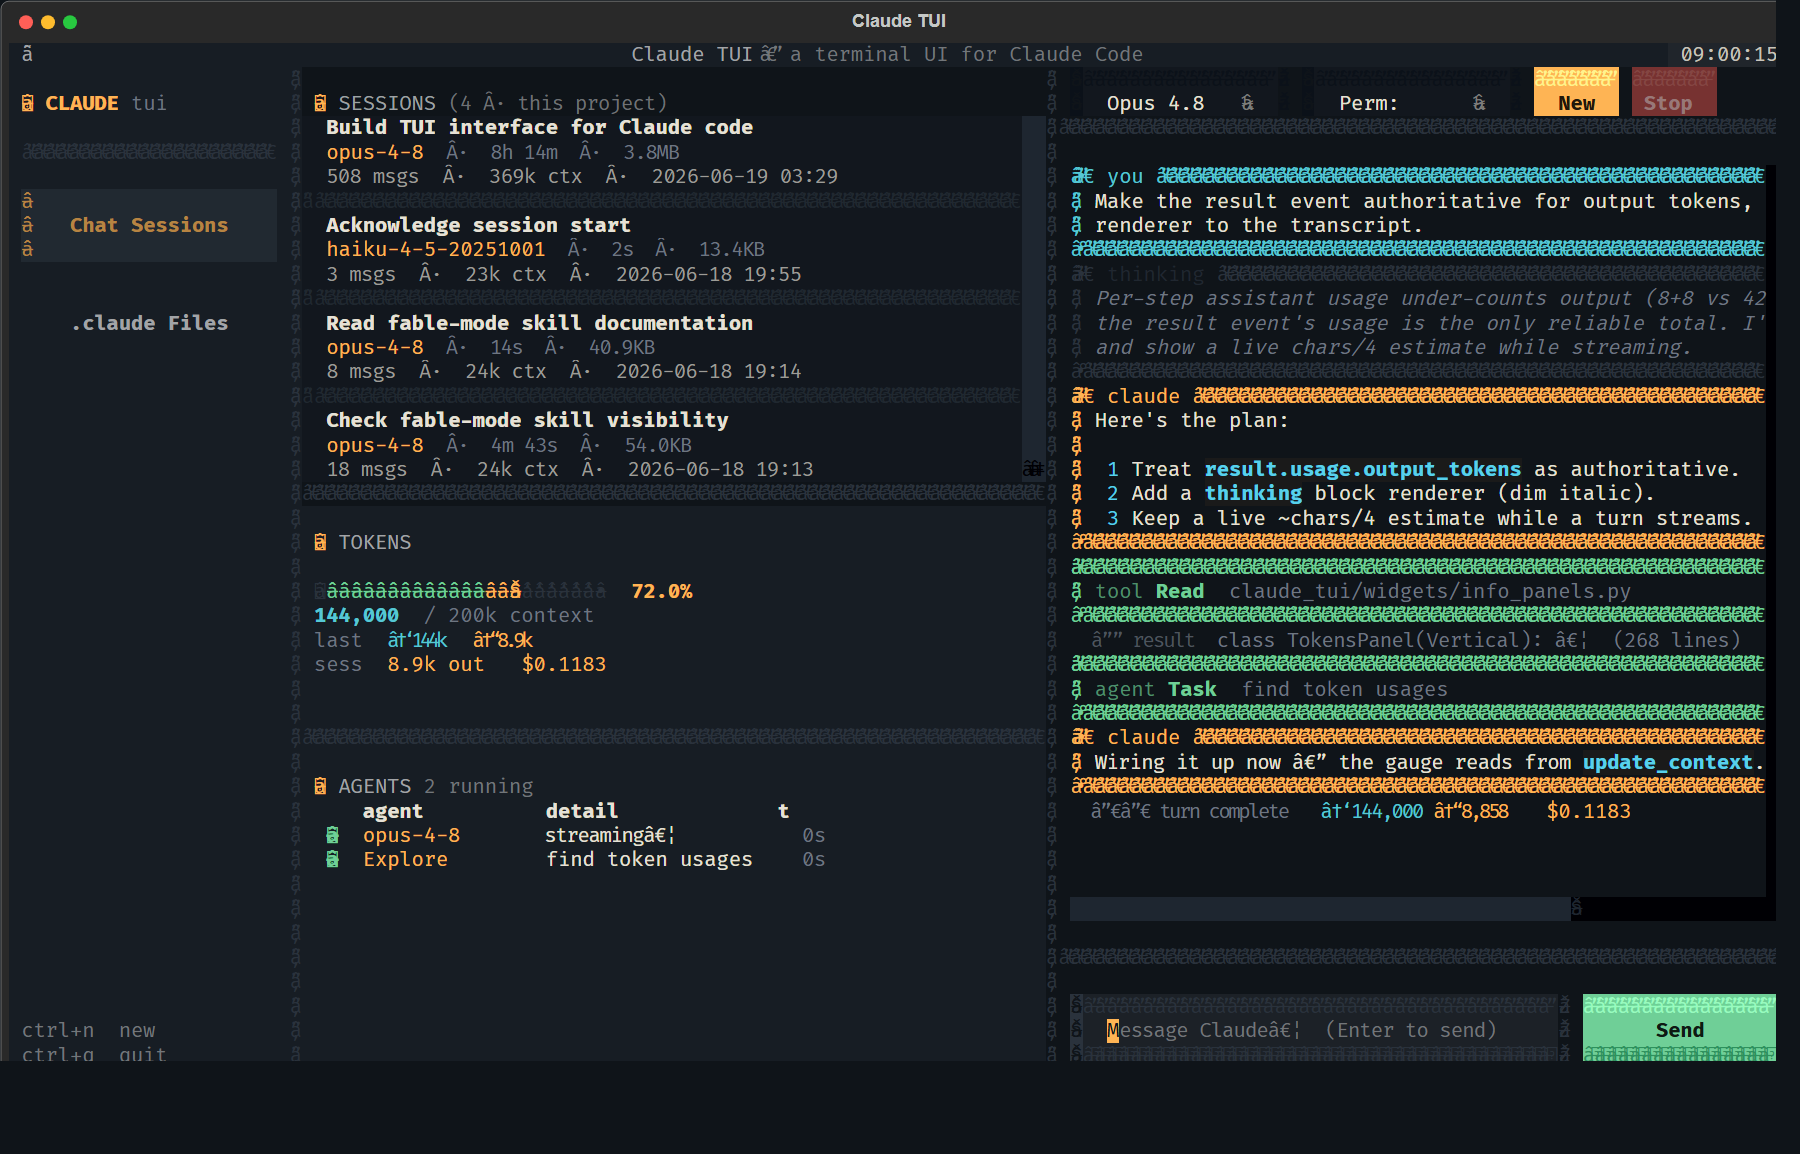
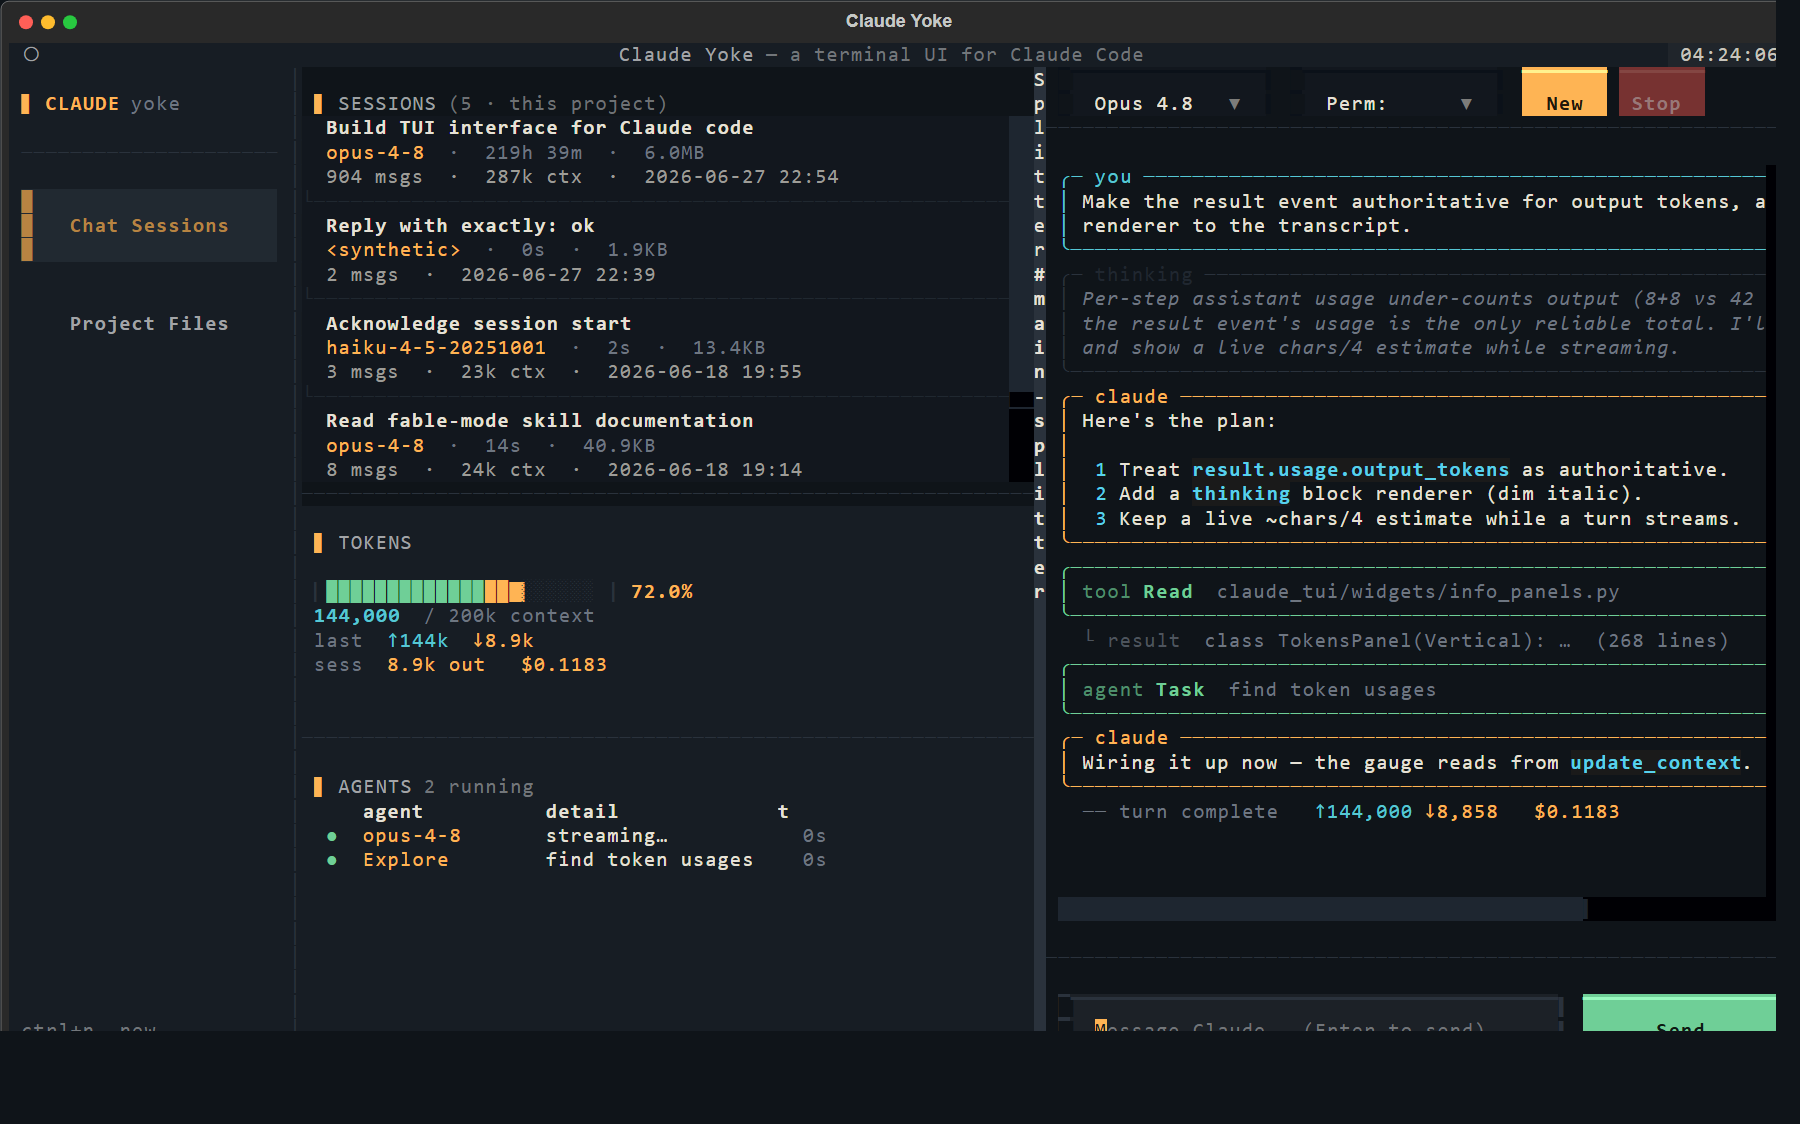
Fix send-after-one-turn lockup, add drag-resizable panes, finish rename
- claude_client: move the process reap/error-emit out of the generator's
  finally block. A yield during GeneratorExit (turn cancel/exception) was
  raising and skipping `self._proc = None`, so is_running stayed True and the
  composer refused every send after the first. finally is now pure cleanup
  (terminate if still live, cancel stderr task, always clear _proc).
- app: gate sends on a worker-lifecycle flag (_turn_active) instead of
  subprocess bookkeeping, so the composer can't get permanently wedged.
- Add a draggable Splitter widget (widgets/splitter.py) between the sidebar
  column and the chat; lights amber on hover/drag. Replaces the static border.
- Finish the rename: app title, sidebar brand, and welcome banner now say
  "Claude Yoke". Refresh docs/screenshot.png to match.

diff --git a/claude_tui/widgets/splitter.py b/claude_tui/widgets/splitter.py
@@ -1,0 +1,71 @@
+"""A thin draggable grip that resizes an adjacent pane with the mouse.
+
+Textual ships no splitter widget, so this is a 1-cell bar that captures the
+mouse on press and, while dragging, rewrites the *target* pane's width (or
+height) reactively. The pane on the other side is expected to be ``1fr`` so it
+simply absorbs the remaining space.
+"""
+
+from __future__ import annotations
+
+from textual import events
+from textual.widget import Widget
+
+
+class Splitter(Widget):
+    """Drag to resize ``target_id``.
+
+    axis ``"x"`` makes a vertical bar that resizes width (drag left/right);
+    axis ``"y"`` makes a horizontal bar that resizes height (drag up/down).
+    ``min_size`` floors the target; ``sibling_min`` reserves space for the
+    1fr pane on the far side so it can't be crushed to nothing.
+    """
+
+    can_focus = False
+
+    def __init__(
+        self,
+        target_id: str,
+        *,
+        axis: str = "x",
+        min_size: int = 24,
+        sibling_min: int = 30,
+        **kwargs,
+    ) -> None:
+        super().__init__(**kwargs)
+        self._target_id = target_id
+        self._axis = axis
+        self._min = min_size
+        self._sibling_min = sibling_min
+        self._dragging = False
+
+    def on_mouse_down(self, event: events.MouseDown) -> None:
+        self._dragging = True
+        self.add_class("-dragging")
+        self.capture_mouse()
+        event.stop()
+
+    def on_mouse_up(self, event: events.MouseUp) -> None:
+        if self._dragging:
+            self._dragging = False
+            self.remove_class("-dragging")
+            self.release_mouse()
+            event.stop()
+
+    def on_mouse_move(self, event: events.MouseMove) -> None:
+        if not self._dragging:
+            return
+        try:
+            target = self.app.query_one(f"#{self._target_id}")
+        except Exception:
+            return
+        container = self.parent
+        if self._axis == "x":
+            desired = event.screen_x - target.region.x
+            limit = container.region.right - self._sibling_min - target.region.x
+            target.styles.width = max(self._min, min(desired, limit))
+        else:
+            desired = event.screen_y - target.region.y
+            limit = container.region.bottom - self._sibling_min - target.region.y
+            target.styles.height = max(self._min, min(desired, limit))
+        event.stop()

diff --git a/claude_tui/core/claude_client.py b/claude_tui/core/claude_client.py
@@ -109,7 +109,11 @@ class ClaudeClient:
                 except json.JSONDecodeError:
                     # Non-JSON noise on stdout — pass it through as a notice.
                     yield {"type": "_stdout", "text": text}
-        finally:
+
+            # stdout reached EOF: reap the process and report a non-zero exit.
+            # This stays OUTSIDE ``finally`` on purpose — yielding while a
+            # generator is being closed (cancel/exception) raises GeneratorExit,
+            # which would skip the cleanup below and wedge ``is_running`` True.
             await proc.wait()
             await stderr_task
             if proc.returncode not in (0, None):
@@ -118,6 +122,16 @@ class ClaudeClient:
                     "returncode": proc.returncode,
                     "stderr": stderr_buf.decode("utf-8", "replace").strip(),
                 }
+        finally:
+            # Runs on normal completion AND when the consumer cancels/closes the
+            # generator. No ``yield`` here, so cleanup always completes.
+            if proc.returncode is None:
+                try:
+                    proc.terminate()
+                except ProcessLookupError:
+                    pass
+            if not stderr_task.done():
+                stderr_task.cancel()
             if self._proc is proc:
                 self._proc = None
 

diff --git a/claude_tui/app.py b/claude_tui/app.py
@@ -26,12 +26,13 @@ from .widgets.editor import EditorScreen
 from .widgets.files_tree import FilesTree
 from .widgets.info_panels import AgentsPanel, TokensPanel
 from .widgets.sessions_list import SessionsList
+from .widgets.splitter import Splitter
 
 
 class ClaudeTUI(App):
     """A multi-pane terminal front-end for the ``claude`` CLI."""
 
-    TITLE = "Claude TUI"
+    TITLE = "Claude Yoke"
     SUB_TITLE = "a terminal UI for Claude Code"
     CSS_PATH = "styles.tcss"
 
@@ -51,6 +52,10 @@ class ClaudeTUI(App):
         self.client = ClaudeClient(cli_path=cli or "claude", cwd=str(self.cwd))
         self._cli_available = cli is not None
         self._task_ids: set[str] = set()
+        # Authoritative "a turn is in flight" flag, tied to the worker's
+        # lifecycle rather than to subprocess bookkeeping — so the composer can
+        # never get permanently wedged if the process state goes sideways.
+        self._turn_active = False
 
     # --------------------------------------------------------------------- #
     #  Composition
@@ -65,6 +70,7 @@ class ClaudeTUI(App):
                     yield FilesTree(self.cwd, id="files")
                 yield TokensPanel(id="tokens-panel")
                 yield AgentsPanel(id="agents-panel")
+            yield Splitter("left-column", axis="x", min_size=30, sibling_min=44, id="main-splitter")
             yield ChatPanel(id="main")
         yield Footer()
 
@@ -125,6 +131,7 @@ class ClaudeTUI(App):
     def action_new_session(self) -> None:
         self.client.cancel()
         self.client.session_id = None
+        self._turn_active = False
         self._task_ids.clear()
         self.chat.clear()
         self.chat.show_welcome()
@@ -154,9 +161,10 @@ class ClaudeTUI(App):
         if not self._cli_available:
             self.chat.add_system("Cannot send: claude CLI not found.", error=True)
             return
-        if self.client.is_running:
+        if self._turn_active:
             self.chat.add_system("A turn is already running — Stop it first.", error=True)
             return
+        self._turn_active = True
         self.chat.add_user(message.text)
         self._run_turn(message.text)
 
@@ -181,6 +189,7 @@ class ClaudeTUI(App):
             chat.add_system(f"stream error: {exc}", error=True)
             ok = False
         finally:
+            self._turn_active = False
             agents.stop_main(ok=ok)
             chat.set_busy(False)
             self.query_one("#prompt").focus()

diff --git a/claude_tui/widgets/activity_bar.py b/claude_tui/widgets/activity_bar.py
@@ -47,7 +47,7 @@ class ActivityBar(Vertical):
 
     def compose(self) -> ComposeResult:
         yield Static(
-            f"[{AMBER}]▍[/] [bold {AMBER}]CLAUDE[/] [{MUTED}]tui[/]", id="brand"
+            f"[{AMBER}]▍[/] [bold {AMBER}]CLAUDE[/] [{MUTED}]yoke[/]", id="brand"
         )
         for view in VIEWS:
             button = Button(view.label, id=f"view-{view.id}", classes="view-button")

diff --git a/claude_tui/widgets/chat.py b/claude_tui/widgets/chat.py
@@ -95,7 +95,7 @@ class ChatPanel(Vertical):
         self.transcript.write(
             render.banner(
                 [
-                    "Welcome to Claude TUI.",
+                    "Welcome to Claude Yoke.",
                     "Pick a session on the left to resume it, or just type below to",
                     "start a new conversation. Subagents appear in the Agents panel,",
                     "live token usage in the Tokens panel.",

diff --git a/README.md b/README.md
@@ -74,6 +74,9 @@ on dedicated instruments while keeping the **real** Claude Code engine underneat
 * **Main chat (right half).** Model + permission-mode selectors, the transcript,
   and the composer.
 
+**Resizing.** Drag the thin vertical divider between the sidebar column and the
+chat to rebalance the split (it lights up amber on hover).
+
 ### Visual identity — "Cockpit"
 
 The app is treated as an **instrument panel for driving an AI coding agent**, and
@@ -166,6 +169,7 @@ claude_tui/
     info_panels.py    # Tokens + Agents panels
     chat.py           # toolbar + transcript + composer
     editor.py         # modal file editor
+    splitter.py       # draggable divider to resize the panes
   styles.tcss         # layout + theme
 tests/
   smoke_test.py       # headless: compose, view switching, event handling